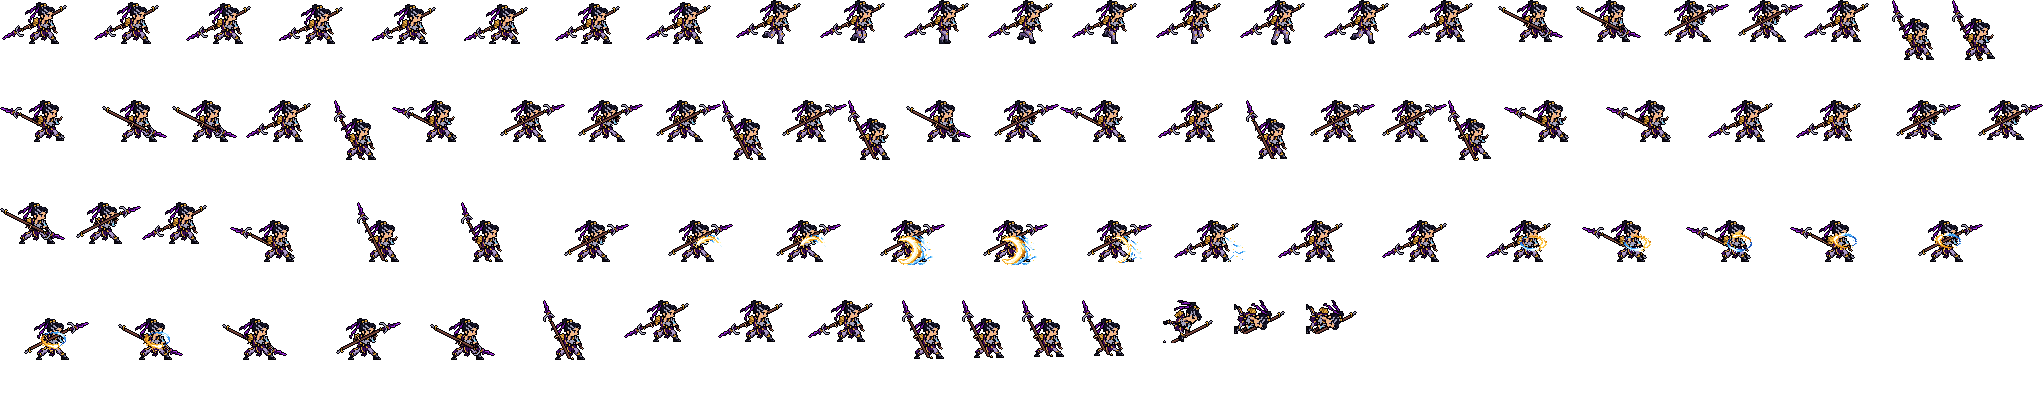
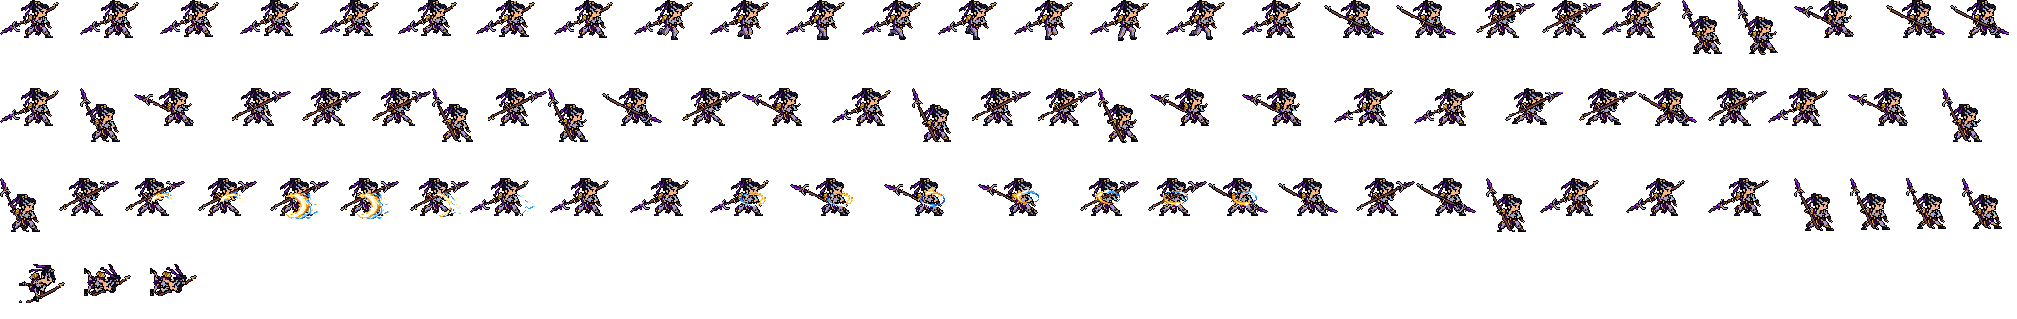
Xin Zhao 90% without resampling (0.79.2)
Players found league_xinzhao too big. tools/art/shrink_frames.py takes whole
rows and columns out of the finished frames (never resampled): per action, of
every ~10 body lines the one most like its neighbour, never through his hands
(small skin pieces) or his face box, the soles kept on their row; every action
loses the same number of body rows, so nothing pops between animations.
import_native.py runs it last (SHRINK / SHRINK_KEEP). Idle 42 -> 38 rows.
champion_view: face (2,-38) -> (1,-35), center -12 -> -11, banpick_center
-9 -> -13 (idle top -30 -> -26).

diff --git a/tools/art/shrink_frames.py b/tools/art/shrink_frames.py
@@ -1,0 +1,307 @@
+#!/usr/bin/env python3
+"""Make a finished hero smaller without resampling: whole rows and columns are taken out, never anything blended.
+
+Players found league_xinzhao, league_xerath, league_samira and league_sivir too big (2026-10-08). A resample of the
+frames (each new square the majority of the old squares it covers) lost details - Xin Zhao's hand went, a black line
+ran down Sivir's middle (the user: 「不要丢失细节 赵兴手就没你弄没了 希维尔缩小后中间一条黑线」). Here a square is
+never invented or merged: of every ten rows (and columns) of the body one is taken out, the one that is the most like
+its neighbour - a row repeated in a robe or a leg goes, the rows that carry a hand, an eye, an outline that turns,
+anything one square thick, differ from both neighbours and stay; and a line that crosses a small single-colour
+piece (a hand, an eye, a gem: at most DETAIL squares) costs DETAIL_WEIGHT more per square of it (the user, after the
+first try: 「赵兴的手还是丢失了啊」 - a line through his hand on the spear had been cheap, the shaft runs on both sides). One choice per action for all its frames (summed
+over them, aligned on the pivot), so a body part keeps its shape from frame to frame. The soles stay on their row:
+rows go only above them and everything over a removed row moves down one; columns go on both sides of the pivot and
+the halves close in on it.
+
+    import shrink_frames as SF
+    plans = SF.shrink_sheet(sheet, 0.9)      # {tag: [(frame centred on its pivot, ms)]}, changed in place
+    SF.move_point(plans["idle"], dx, dy)     # a point (from the pivot) after the shrink
+
+Used by import_native.py (SHRINK) as its last step before the sheet is written.
+"""
+import numpy as np
+
+import strips as G
+
+
+def _canvas(frames):
+    """The frames on one canvas each, pivot at (H, W): (stack, H, W)."""
+    H = max(a.shape[0] // 2 for a, _ in frames)
+    W = max(a.shape[1] // 2 for a, _ in frames)
+    st = np.zeros((len(frames), 2 * H + 1, 2 * W + 1, 4), np.uint8)
+    for k, (a, _) in enumerate(frames):
+        h, w = a.shape[0] // 2, a.shape[1] // 2
+        st[k, H - h:H + h + 1, W - w:W + w + 1] = a
+    return st, H, W
+
+
+def _diff(st, axis):
+    """cost[i]: squares where line i differs from line i - 1 (rows: axis 1, columns: axis 2), over all frames; the
+    cheaper of the two neighbours, as a line equal to either neighbour goes without loss."""
+    a = st.astype(np.int16)
+    op = a[..., 3] > 0
+    n = st.shape[axis]
+    prev = np.full(n, 10 ** 9)
+    for i in range(1, n):
+        x, y = np.take(a, i, axis), np.take(a, i - 1, axis)
+        ox, oy = np.take(op, i, axis), np.take(op, i - 1, axis)
+        prev[i] = int(((ox | oy) & ((x != y).any(-1))).sum())
+    nxt = np.append(prev[1:], 10 ** 9)
+    return np.minimum(prev, nxt)
+
+
+DETAIL = 16          # a single-colour piece this small (a hand, an eye, a gem, a buckle) is a detail
+DETAIL_WEIGHT = 40   # what one of its squares adds to the cost of the line through it
+
+
+def _details(st):
+    """Per frame, the squares of small single-colour pieces (4-connected, at most DETAIL squares; not the darkest
+    colour, the outline, which runs everywhere): a line through them takes a square off a hand or an eye."""
+    out = np.zeros(st.shape[:3], bool)
+    for k in range(st.shape[0]):
+        a = st[k]
+        op = a[..., 3] > 0
+        if not op.any():
+            continue
+        key = (a[..., 0].astype(np.int32) << 16) | (a[..., 1].astype(np.int32) << 8) | a[..., 2]
+        dark = int(key[op][np.argmin(a[..., :3][op].astype(int).sum(-1))])
+        seen = np.zeros(op.shape, bool)
+        Hh, Ww = op.shape
+        for y, x in zip(*np.nonzero(op)):
+            if seen[y, x] or key[y, x] == dark:
+                continue
+            c = key[y, x]
+            stack, piece = [(y, x)], []
+            seen[y, x] = True
+            while stack:
+                v, u = stack.pop()
+                piece.append((v, u))
+                if len(piece) > DETAIL:
+                    break
+                for dv, du in ((1, 0), (-1, 0), (0, 1), (0, -1)):
+                    q, w = v + dv, u + du
+                    if 0 <= q < Hh and 0 <= w < Ww and not seen[q, w] and op[q, w] and key[q, w] == c:
+                        seen[q, w] = True
+                        stack.append((q, w))
+            if len(piece) <= DETAIL and not stack:
+                for v, u in piece:
+                    out[k, v, u] = True
+    return out
+
+
+def _kept(st, colours, limit=10):
+    """Per frame, the squares no removed line may cross while its stretch has another: small pieces (at most `limit`,
+    4-connected) in the hero's skin colours - hands and fingers - and, for colours written "!RRGGBB" (eyes, lips),
+    the whole box from the first to the last of them - the face from the eyes to the mouth."""
+    out = np.zeros(st.shape[:3], bool)
+    if not colours:
+        return out
+    face, margin = [], (0, 0, 0, 0)
+    for h in [h for h in colours if h.startswith("#")]:
+        # "#RRGGBB>AABBCC,DDEEFF": squares of RRGGBB with one of the others right above AND below - Samira's knee
+        # bands (red between the trouser greens; the sash is the same red but sits on skin and black): a cut
+        # through a band in the run's rebuilt legs bent the leg (「腿变形了」)
+        col, _, between = h[1:].partition(">")
+        c = tuple(int(col[i:i + 2], 16) for i in (0, 2, 4))
+        mids = [tuple(int(m[i:i + 2], 16) for i in (0, 2, 4)) for m in between.split(",") if m]
+        for k in range(st.shape[0]):
+            a = st[k]
+            m = (a[..., 3] > 0) & (a[..., :3] == c).all(-1)
+            if mids:
+                env = np.zeros(a.shape[:2], bool)
+                for mc in mids:
+                    env |= (a[..., :3] == mc).all(-1) & (a[..., 3] > 0)
+                up, down = np.zeros_like(env), np.zeros_like(env)
+                up[1:] = env[:-1]
+                down[:-1] = env[1:]
+                m &= up & down
+            out[k] |= m
+    colours = [h for h in colours if not h.startswith("#")]
+    for h in colours:
+        if h.startswith("!"):
+            hexs, _, m = h[1:].partition("+")              # "!RRGGBB+up,down,left,right": the box grown by that
+            face.append(tuple(int(hexs[i:i + 2], 16) for i in (0, 2, 4)))
+            if m:
+                margin = tuple(int(v) for v in m.split(","))
+    colours = [h for h in colours if not h.startswith("!")]
+    for k in range(st.shape[0]):                       # the face: every line from the eyes to the mouth
+        m = np.zeros(st.shape[1:3], bool)
+        for c in face:
+            m |= (st[k][..., 3] > 0) & (st[k][..., :3] == c).all(-1)
+        if m.any():
+            ys, xs = np.nonzero(m)
+            up, down, left, right = margin
+            out[k, max(ys.min() - up, 0):ys.max() + 1 + down, max(xs.min() - left, 0):xs.max() + 1 + right] = True
+    rgb = [tuple(int(h[i:i + 2], 16) for i in (0, 2, 4)) for h in colours]
+    for k in range(st.shape[0]):
+        a = st[k]
+        sk = np.zeros(a.shape[:2], bool)
+        for c in rgb:
+            sk |= (a[..., 3] > 0) & (a[..., :3] == c).all(-1)
+        seen = np.zeros(sk.shape, bool)
+        for y, x in zip(*np.nonzero(sk)):
+            if seen[y, x]:
+                continue
+            stack, piece = [(y, x)], []
+            seen[y, x] = True
+            while stack:
+                v, u = stack.pop()
+                piece.append((v, u))
+                for dv, du in ((1, 0), (-1, 0), (0, 1), (0, -1)):
+                    q, w = v + dv, u + du
+                    if 0 <= q < sk.shape[0] and 0 <= w < sk.shape[1] and sk[q, w] and not seen[q, w]:
+                        seen[q, w] = True
+                        stack.append((q, w))
+            if len(piece) <= limit:
+                for v, u in piece:
+                    out[k, v, u] = True
+    return out
+
+
+def _pick(cost, lo, hi, k, avoid=(), keep=None):
+    """k lines in [lo, hi), one in each of k equal stretches: the cheapest there (no two side by side)."""
+    out = []
+    lo, hi = max(lo, 1), min(hi, len(cost))              # a small action's canvas may not reach the idle's edges
+    if k <= 0 or hi - lo < 2:
+        return out
+    edges = np.linspace(lo, hi, k + 1)
+    for s in range(k):
+        a, b = int(round(edges[s])), int(round(edges[s + 1]))
+        cand = [i for i in range(a, b) if i not in avoid and (i - 1) not in out and (i + 1) not in out]
+        if cand:
+            # the line crossing the fewest kept squares (none, as a rule), then the cheapest
+            k_ = (lambda i: int(keep[i])) if keep is not None else (lambda i: 0)
+            out.append(min(cand, key=lambda i: (k_(i), cost[i], abs(i - (a + b) / 2))))
+    # (a stretch's pick that crosses kept squares is moved by plan_tag's move_off - by the HARD keep only and to
+    # the nearest free line: moving it here by the soft keep to the cheapest line anywhere sent every head and
+    # torso row down to the legs, where nothing is kept - Samira's 「太怪了」)
+    return out
+
+
+def plan_tag(frames, body, scale, keep_colours=(), edge_rows=(), edge_cols=(), hard_frames=None):
+    """The rows and columns (canvas lines, from the pivot) the hero loses. body = (top, bottom, left, right) of the
+    idle's body from the pivot (bottom = the soles' row): of its rows and columns 1 - scale go; of what lies beyond
+    it (a raised or held-out weapon) the same share. One plan serves every action (shrink_sheet passes all their
+    frames together), so the body loses the same lines in each - an action one row taller than the idle would pop at
+    every animation change. edge_rows / edge_cols: every action's own outermost two lines (pivot-relative), kept."""
+    st, H, W = _canvas(frames)
+    occ = (st[..., 3] > 0).any(0)
+    rows, cols = np.nonzero(occ.any(1))[0], np.nonzero(occ.any(0))[0]
+    top, bottom, left, right = body
+    cut = 1 - scale
+    det = _details(st)
+    rc = _diff(st, 1) + DETAIL_WEIGHT * det.sum((0, 2))
+    cc = _diff(st, 2) + DETAIL_WEIGHT * det.sum((0, 1))
+    kept = _kept(st, keep_colours)
+    kr, kc = kept.sum((0, 2)), kept.sum((0, 1))        # kept squares on each line, over the frames
+    # the figure's outermost lines on every side stay: they hold its tips and its outline (Sivir's first plan
+    # took her hair's top row and both side columns - 「希维尔缩小后整体有点变形」); with a shared plan, every
+    # action's own extremes are passed in too
+    big = 10 ** 6
+    edge_r = {rows.min(), rows.min() + 1, H + bottom - 1, H + bottom} | {H + r for r in edge_rows}
+    edge_c = ({cols.min(), cols.min() + 1, cols.max() - 1, cols.max(), W + left, W + left + 1,
+               W + right - 1, W + right} | {W + c for c in edge_cols})
+    for edge in edge_r:
+        if 0 <= edge < len(kr):
+            kr[edge] += big
+    for edge in edge_c:
+        if 0 <= edge < len(kc):
+            kc[edge] += big
+    r_body0, r_sole = H + top, H + bottom                  # canvas rows of the body's top and the soles' row
+    r_pick = _pick(rc, r_body0, r_sole, int(round(cut * (r_sole - r_body0))), keep=kr)
+    if rows.min() < r_body0:                               # what rises over the body
+        r_pick += _pick(rc, rows.min(), r_body0, int(round(cut * (r_body0 - rows.min()))), r_pick, keep=kr)
+    c_l, c_r = W + left, W + right
+    c_pick = (_pick(cc, c_l, W, int(round(cut * (W - c_l))), keep=kc)
+              + _pick(cc, W + 1, c_r + 1, int(round(cut * (c_r - W))), keep=kc))
+    if cols.min() < c_l:
+        c_pick += _pick(cc, cols.min(), c_l, int(round(cut * (c_l - cols.min()))), c_pick, keep=kc)
+    if cols.max() > c_r:
+        c_pick += _pick(cc, c_r + 1, cols.max() + 1, int(round(cut * (cols.max() - c_r))), c_pick, keep=kc)
+    # a line still on kept squares (a side whose every column crosses the head) moves to the cheapest free line of
+    # the whole figure, the other side of the pivot too (Samira's head fills her right half: 「莎米拉发型每个动作帧都改对了？」)
+    def move_off(picks, keep, cost, lo, hi, skip, drop):
+        for j, i in enumerate(picks):
+            if keep[i] <= 0:
+                continue
+            free = [c for c in range(lo, hi) if keep[c] <= 0 and c not in skip and c not in picks
+                    and (c - 1) not in picks and (c + 1) not in picks]
+            if free:
+                # the nearest free lines first (bands of 6), the cheapest among them: a head stretch's line goes to
+                # the shoulders, not down to the legs (Samira's three body rows all left her legs: 「太怪了」)
+                picks[j] = min(free, key=lambda c: (abs(c - i) // 6, cost[c]))
+            elif drop:
+                picks[j] = None                        # columns: the head fills a whole side - one column fewer
+            else:
+                # rows: never one fewer (every action must lose the same number, or it stands a row taller than
+                # the idle and pops at the change) - the line with the fewest kept squares
+                cand = [c for c in range(lo, hi) if c not in skip and c not in picks
+                        and (c - 1) not in picks and (c + 1) not in picks]
+                picks[j] = min(cand, key=lambda c: (keep[c], cost[c])) if cand else i
+        return [c for c in picks if c is not None]
+    # only the face / head box ("!" colours) and the edges are held this hard; a hand line that could not be
+    # avoided stays cut
+    hard = _kept(st, [c for c in keep_colours if c[0] in "!#"])
+    if hard_frames is not None:
+        # the death's lying frames put the head at the body's height: in the sum over all frames they made every
+        # standing row "the head" and the whole cut fell on the legs (Samira: 「太怪了」) - they count as soft only
+        hard[~np.asarray(hard_frames, bool)] = False
+    hr, hc = hard.sum((0, 2)), hard.sum((0, 1))
+    for edge in edge_r:
+        if 0 <= edge < len(hr):
+            hr[edge] += big
+    hr[H] += big                                       # the pivot row: the hips' join, the belt (Samira's run
+    kr[H] += big                                       # legs came off their hips with it: 「腿变形了」)
+    for edge in edge_c:
+        if 0 <= edge < len(hc):
+            hc[edge] += big
+    r_pick = move_off(r_pick, hr, rc, rows.min(), H + bottom + 1, (), False)
+    c_pick = move_off(c_pick, hc, cc, cols.min(), cols.max() + 1, (W,), True)
+    return {"rows": sorted(i - H for i in r_pick), "cols": sorted(i - W for i in c_pick),       # from the pivot
+            "lost": int(rc[r_pick].sum() + cc[c_pick].sum()) if r_pick or c_pick else 0}
+
+
+def move_point(plan, dx, dy):
+    """(dx, dy) from the pivot after the plan: down one for each removed row under it (they are all above the soles,
+    which stay), in one for each removed column between it and the pivot."""
+    ny = dy + sum(1 for i in plan["rows"] if i > dy)
+    if dx < 0:
+        return dx + sum(1 for i in plan["cols"] if dx < i < 0), ny
+    return dx - sum(1 for i in plan["cols"] if 0 < i < dx), ny
+
+
+def apply_tag(frames, plan):
+    """The frames without the plan's rows and columns, each centred on its pivot again: the pivot's row moves up by
+    every removed row (all lie above the soles, so the soles keep their place under the pivot) and its column by the
+    removed columns left of it."""
+    st, H, W = _canvas(frames)
+    gone_r = {H + i for i in plan["rows"] if 0 <= H + i < st.shape[1]}
+    gone_c = {W + i for i in plan["cols"] if 0 <= W + i < st.shape[2]}
+    keep_r = [i for i in range(st.shape[1]) if i not in gone_r]
+    keep_c = [i for i in range(st.shape[2]) if i not in gone_c]
+    pr = H - len(gone_r)
+    pc = W - sum(1 for i in gone_c if i < W)
+    return [(G.centre_frame(st[k][np.ix_(keep_r, keep_c)], -pc, -pr), ms) for k, (_, ms) in enumerate(frames)]
+
+
+def shrink_sheet(sheet, scale, body_tag="idle", same_as=None, keep_colours=()):
+    """Every action of the sheet made `scale` as big; returns {tag: plan}. same_as {tag: source tag}: a copy of
+    another action's frames (import_native's bake: the attack with a flash drawn in) takes its source's plan."""
+    st, H, W = _canvas(sheet[body_tag][:1])
+    occ = st[0, ..., 3] > 0
+    ys, xs = np.nonzero(occ)
+    body = (ys.min() - H, ys.max() - H, xs.min() - W, xs.max() - W)
+    # one plan per action from its own frames (its head box and hands are tight there; one plan for all the actions
+    # at once made the lying death frames and the jumps protect every standing row and the whole cut fell on the legs)
+    # - but the counts come from the idle's body range for all, and no pick is ever dropped, so every action loses
+    # the same number of body rows and columns: the same height, no pop at an animation change
+    plans = {}
+    same_as = same_as or {}
+
+    def root(t):
+        return root(same_as[t]) if t in same_as and same_as[t] in sheet else t
+    for tag in sorted(sheet, key=lambda t: t != root(t)):
+        plans[tag] = plans[root(tag)] if root(tag) != tag else plan_tag(sheet[tag], body, scale, keep_colours)
+    for tag in list(sheet):
+        sheet[tag] = apply_tag(sheet[tag], plans[tag])
+    return plans

diff --git a/tools/art/import_native.py b/tools/art/import_native.py
@@ -624,6 +624,13 @@ BOB_CARRY = {("jhin", "idle"): ((None, -11), (6, None))}
 # and cleaned): the user's clean-up of dirty black blocks and stray squares inside the silhouette (2026-10-02:
 # "盖伦把黑边清理干净 有杂的黑色的地方", "风女 莫甘娜 不干净的黑色块也太多了", "莫甘娜头部有很多多余的方块", "阿狸也是都给我清理干净")
 TIDY = {"ahri": "clean_ahri", "janna": "clean_janna", "morgana": "clean_morgana"}
+# heroes players found too big (2026-10-08: league_xinzhao): the finished frames lose whole rows and columns, never
+# resampled (shrink_frames.py), as the last step before the sheet is written
+SHRINK = {"xinzhao": 0.9}
+# their skin colours: no row or column through a hand (a small piece of skin) is taken out (「赵兴的手还是丢失了啊」);
+# "!" colours: no line through the box from the first to the last of them, "+up,down,left,right" grows it - Xin Zhao's
+# eye glint grown to his whole face (rows -12/-10 had cut it: 「缩小后这里脸变形」)
+SHRINK_KEEP = {"xinzhao": ["F3B786", "BB7656", "!D5C9C6+6,4,9,8"]}
 CROWN = {"leesin"}              # heroes whose head template starts at the crown (a braid stands above it)
 PASTED = {"masteryi"}            # steadied on the head restyle_native pasted: his raised sword is the top of every frame
 # Codex's step-2 redraw (model_strips_18, tidied by tidy_codex18.py): the approved design's head (or face) is in every
@@ -908,6 +915,7 @@ def build(hero):
 
 
 HEAD_AT = {}
+SHRUNK = {}
 
 
 def breathe_idle(hero, sheet):
@@ -1420,6 +1428,17 @@ def main():
                   f"nod {'px %.0f' % rows['neck_cost'] if rows['neck'] is not None else 'OFF'})")
         for tag, fx in bake(hero, sheet).items():
             print(f"{hero}_bake.json: {tag} carries {', '.join(fx)} ({len(sheet[tag])} frames)")
+        if hero in SHRINK:
+            import shrink_frames as SF
+            bake_path = os.path.join(SRC, f"{hero}_bake.json")
+            copies = {}
+            if os.path.exists(bake_path):
+                with open(bake_path, encoding="utf-8") as f:
+                    copies = {e["into"]: e["from"] for e in json.load(f)["items"] if "from" in e}
+            plans = SF.shrink_sheet(sheet, SHRINK[hero], same_as=copies, keep_colours=SHRINK_KEEP.get(hero, ()))
+            SHRUNK[hero] = plans
+            print(f"{hero}: shrunk to {SHRINK[hero]:.0%} without resampling: " + ", ".join(
+                f"{t} -{len(p['rows'])}r -{len(p['cols'])}c" for t, p in plans.items()))
         w, h = G.write_sheet(os.path.join(MOD, "champions", f"league_{hero}"), sheet)
         forms = form_sheets(hero, sheet)
         for name, fsheet in forms.items():
